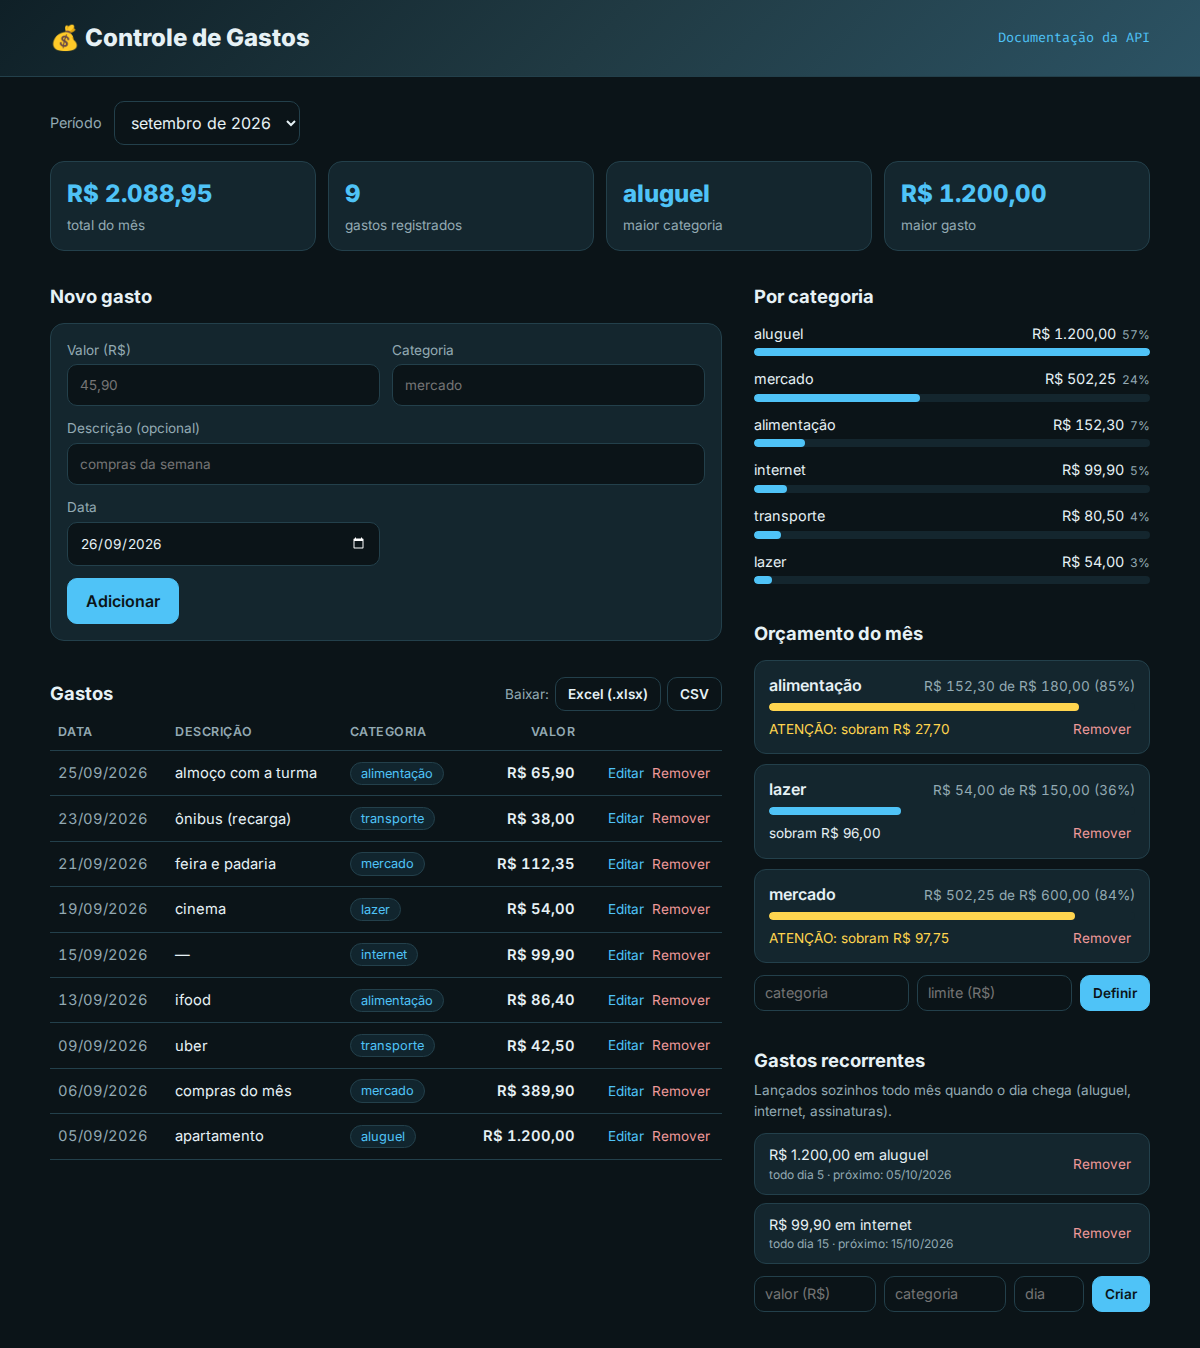
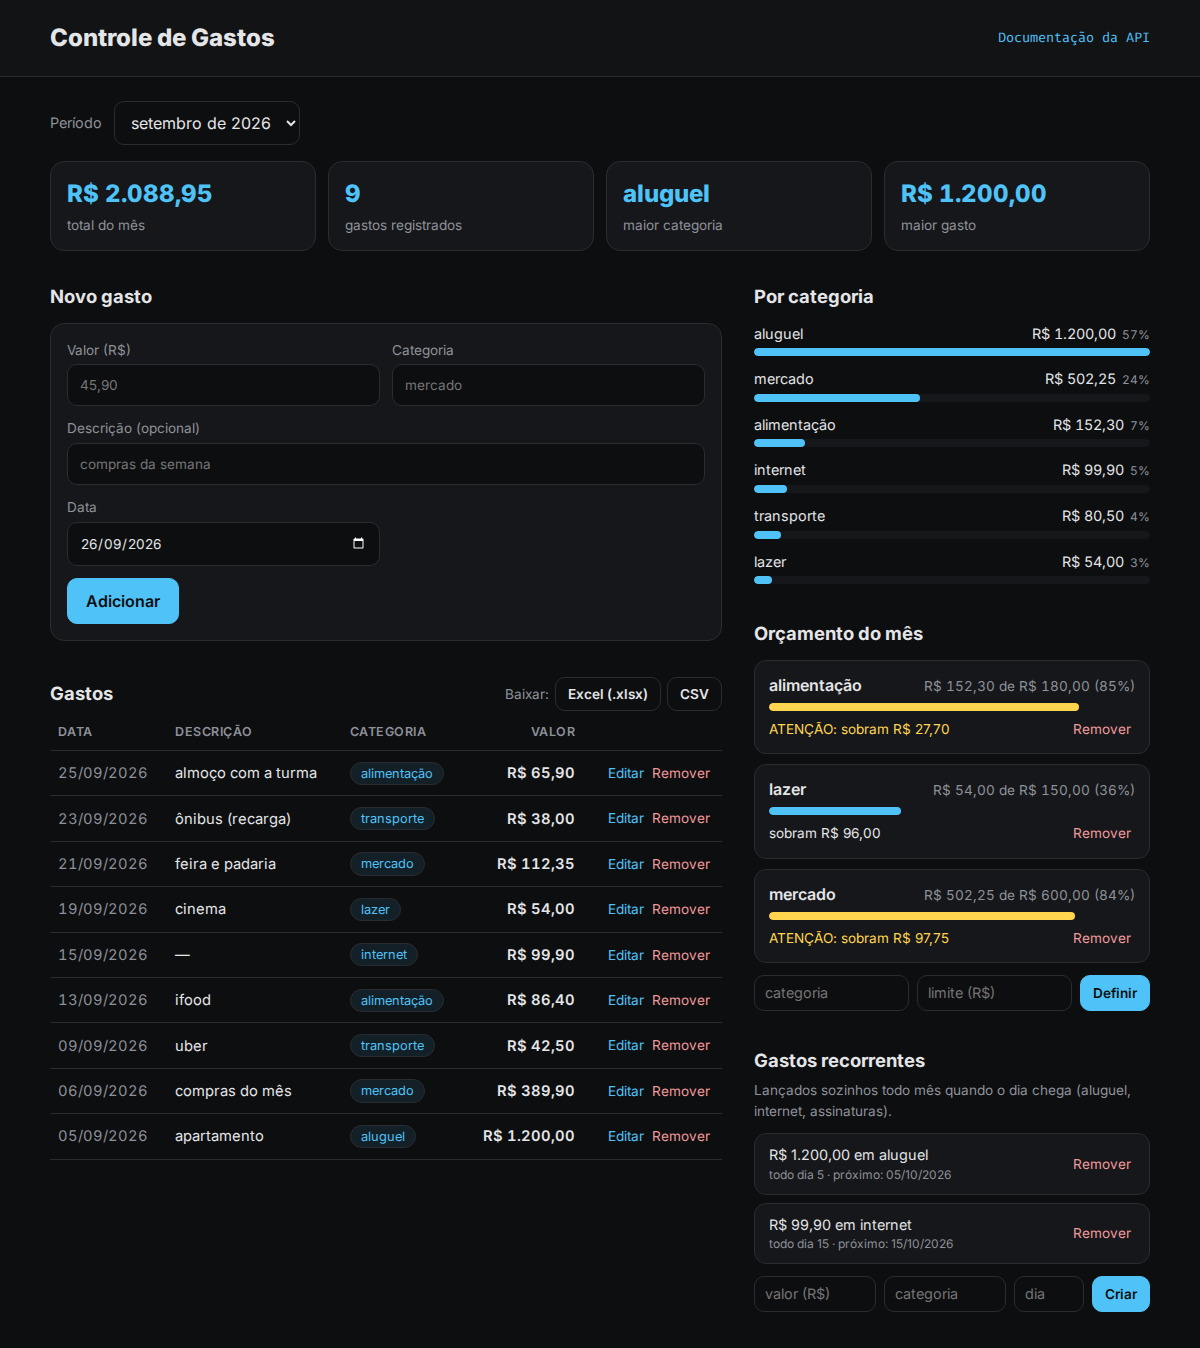
Deixa o visual da página mais sóbrio: tons de cinza e sem emoji

Changed region(s): [[0.0308, 0.0, 1.0, 0.0623], [0.3392, 0.1558, 0.37, 0.1869]]

diff --git a/gastos/web/static/estilo.css b/gastos/web/static/estilo.css
@@ -1,18 +1,18 @@
-/* Mesmas cores e fontes do portfólio (lakes777.github.io) */
+/* Tons de cinza-grafite, neutros e sóbrios; o azul do portfólio fica só nos destaques */
 :root {
-  --bg: #0b1418;
-  --surface: #14262e;
-  --surface-hover: #1a313b;
-  --border: #23404b;
+  --bg: #0d0e10;
+  --surface: #16171a;
+  --surface-hover: #1e1f23;
+  --border: #2a2c31;
 
-  --text: #e6f1f5;
-  --text-muted: #93aab3;
+  --text: #e4e5e7;
+  --text-muted: #8e9199;
 
   --accent: #4fc3f7;
   --accent-dark: #0288d1;
   --atencao: #ffd54f;
   --perigo: #ef9a9a;
-  --gradient: linear-gradient(135deg, #0f2027, #203a43, #2c5364);
+  --topo: #121315;
 
   --font: "Inter", system-ui, sans-serif;
   --mono: "Fira Code", monospace;
@@ -53,7 +53,7 @@ body {
 
 /* ---------- Topo ---------- */
 .topo {
-  background: var(--gradient);
+  background: var(--topo);
   border-bottom: 1px solid var(--border);
 }
 

diff --git a/gastos/web/static/index.html b/gastos/web/static/index.html
@@ -13,7 +13,7 @@
 <body>
   <header class="topo">
     <div class="container topo__conteudo">
-      <h1 class="topo__titulo">💰 Controle de Gastos</h1>
+      <h1 class="topo__titulo">Controle de Gastos</h1>
       <a class="topo__link" href="/docs">Documentação da API</a>
     </div>
   </header>
